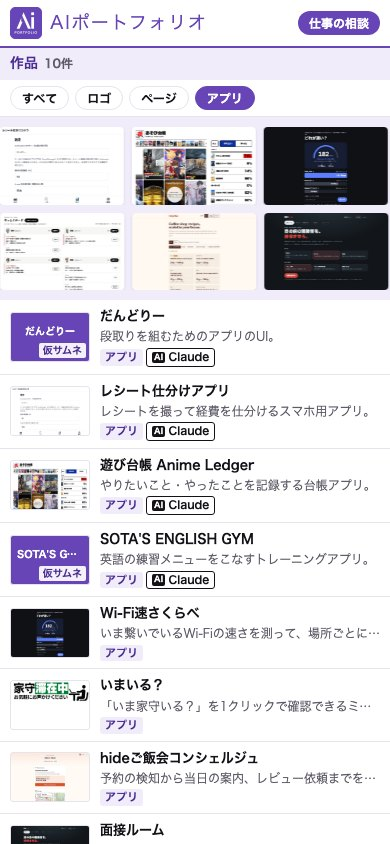
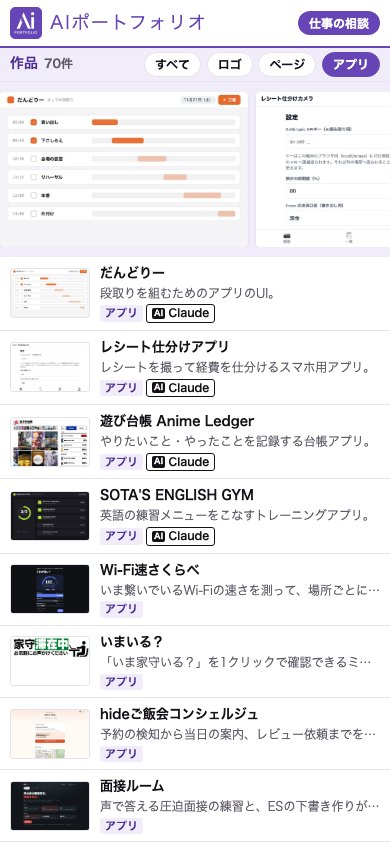
OGPを現行サイト（139件・新サムネ・相談ボタン）で撮り直し og-final2.png に差し替え。og-final.png はキャッシュ対策で据え置き。selftest期待値も og-final2 に更新

diff --git a/selftest.html b/selftest.html
@@ -28,7 +28,7 @@ const modal=(d,win,L,w)=>{const g=d.getElementById("cdlg"),r=[];if(!g)return ok(
     if(v!=="board"&&(v==="index"||w===390))modal(d,win,`${v} ${w}px`,w);
     if(w!==390)continue;
     const self=v==="index"?B:`${B}${v}.html`,top=v==="index";
-    ok(d.querySelector('link[rel=icon]').href.endsWith("favicon.png")&&d.querySelector('link[rel=apple-touch-icon]').href.endsWith("assets/apple-touch-icon.png")&&d.querySelector('meta[property="og:image"]').content===B+({board:"og-board2.png",index:"og-final.png"}[v]||"og.png")&&d.querySelector('meta[property="og:url"]').content===self,`${v} favicon/apple-touch/og:image/og:url=${self}`);
+    ok(d.querySelector('link[rel=icon]').href.endsWith("favicon.png")&&d.querySelector('link[rel=apple-touch-icon]').href.endsWith("assets/apple-touch-icon.png")&&d.querySelector('meta[property="og:image"]').content===B+({board:"og-board2.png",index:"og-final2.png"}[v]||"og.png")&&d.querySelector('meta[property="og:url"]').content===self,`${v} favicon/apple-touch/og:image/og:url=${self}`);
     const logo=d.querySelector("header img");ok(logo&&logo.complete&&logo.naturalWidth===256&&/assets\/icon\.png$/.test(logo.src),`${v} ヘッダーロゴ＝確定アイコン ${logo&&logo.src.split("/").pop()}`);
     if(v==="board"){
       const links=[...d.querySelectorAll(".grid a")].map(a=>a.getAttribute("href"));ok(links.join()==="v6.html,v7.html,v8.html,v9.html,v10.html,v1.html,v2.html,v3.html,v4.html,v5.html",`board 10案リンク ${links}`);

diff --git a/index.html b/index.html
@@ -10,7 +10,7 @@
 <meta property="og:title" content="AIポートフォリオ｜AIで作ったロゴ・ページ・アプリ">
 <meta property="og:description" content="ChatGPT・Claudeなどを使い分けて作ったデザイン実績。作品ごとに使用AIを記載。">
 <meta property="og:url" content="https://yukitchy.github.io/ai-portfolio/">
-<meta property="og:image" content="https://yukitchy.github.io/ai-portfolio/og-final.png">
+<meta property="og:image" content="https://yukitchy.github.io/ai-portfolio/og-final2.png">
 <meta name="twitter:card" content="summary_large_image">
 <link rel="icon" href="favicon.png" type="image/png">
 <link rel="apple-touch-icon" href="assets/apple-touch-icon.png">

diff --git a/shots.py b/shots.py
@@ -19,7 +19,7 @@ for v in [] if top else [f"v{i}" for i in range(1,11)]:
   Image.open(png).convert("RGB").crop((0,0,w,844)).save(f"{out}/{v}.jpg",quality=86)
 os.remove("_frame.html")
 print("shots",out)
-# 本採用トップのOGP og-final.png（黒地＋上段に白太字＋紫の短い下線／下段にトップ実画面4枚を横一列）。旧 og.png/og-top.png/og-board2.png は書かない（プレビューキャッシュ回避で新しい名前）
+# 本採用トップのOGP og-final2.png（og-final.png は65件時代の旧版・キャッシュ回避で据え置き。黒地＋上段に白太字＋紫の短い下線／下段にトップ実画面4枚を横一列）。旧 og.png/og-top.png/og-board2.png は書かない（プレビューキャッシュ回避で新しい名前）
 if top and w==390:
   from PIL import ImageDraw,ImageFont
   og=Image.new("RGB",(1200,630),(20,18,23));d=ImageDraw.Draw(og)
@@ -33,7 +33,7 @@ if top and w==390:
     sh=Image.open(f"shots/top-390-{c}.jpg").resize((cw,cw*844//390),Image.LANCZOS).crop((0,0,cw,630-y))
     m=Image.new("L",sh.size,0);ImageDraw.Draw(m).rounded_rectangle((0,0,cw-1,sh.height+20),12,fill=255)
     og.paste(sh,(60+i*(cw+gap),y),m)
-  og.save("og-final.png",optimize=True);print("og-final.png")
+  og.save("og-final2.png",optimize=True);print("og-final2.png")
 # ボードのOGP（黒地＋白太字見出し＋紫の短い下線＋v6〜v10の実画面を横一列）。og.png は上書きしない（iPhoneのキャッシュ回避で新しい名前）
 if w==390 and not top:
   from PIL import ImageDraw,ImageFont
